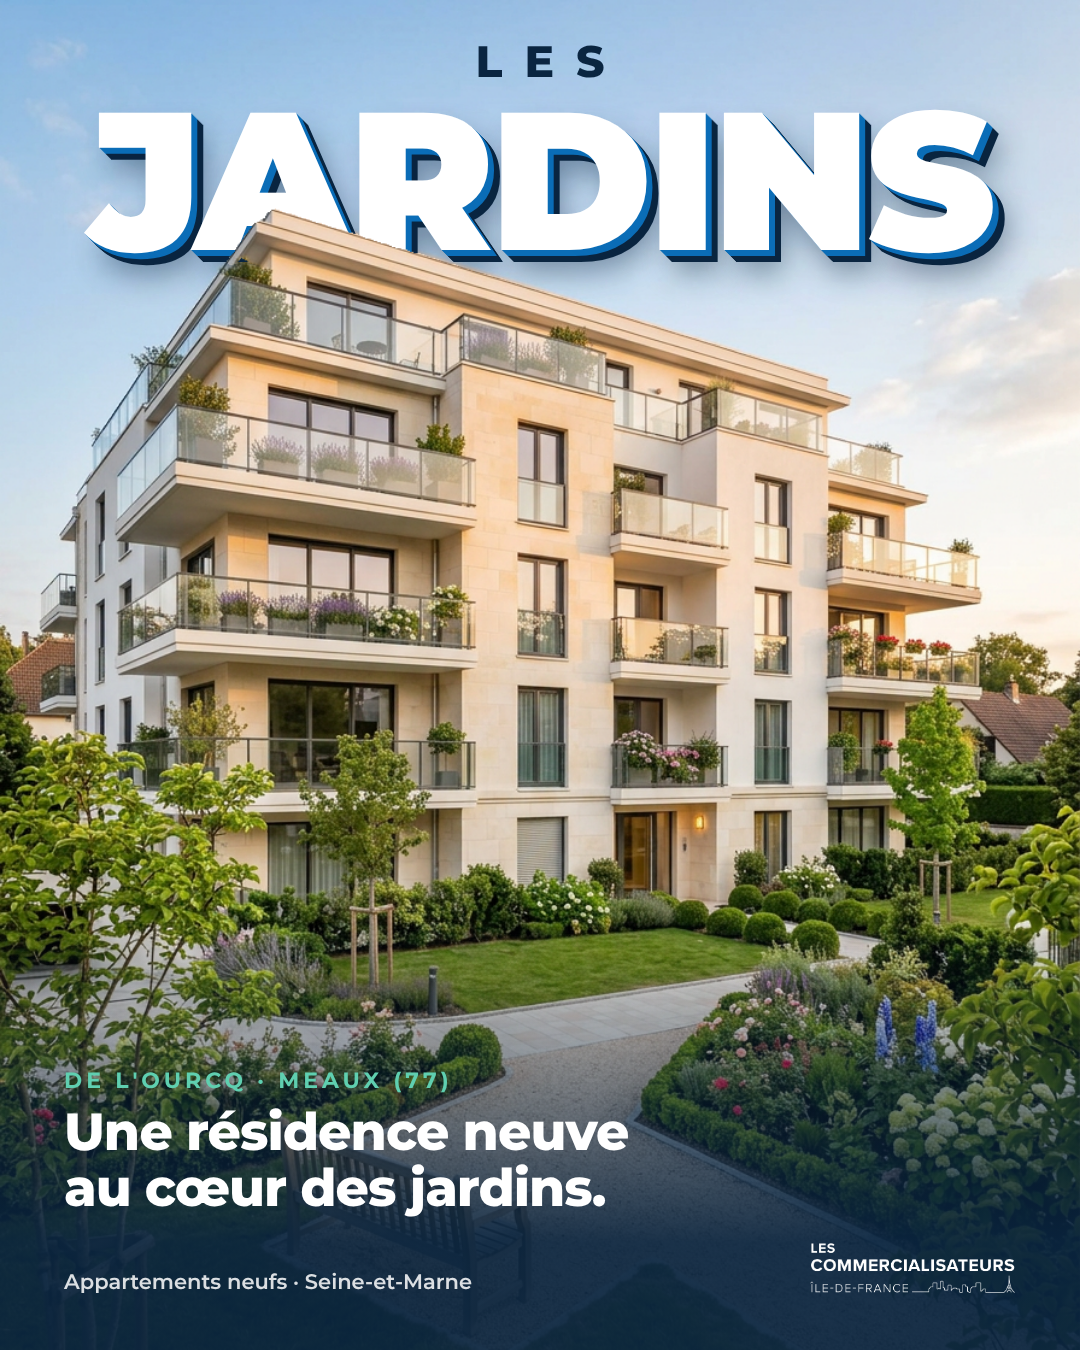
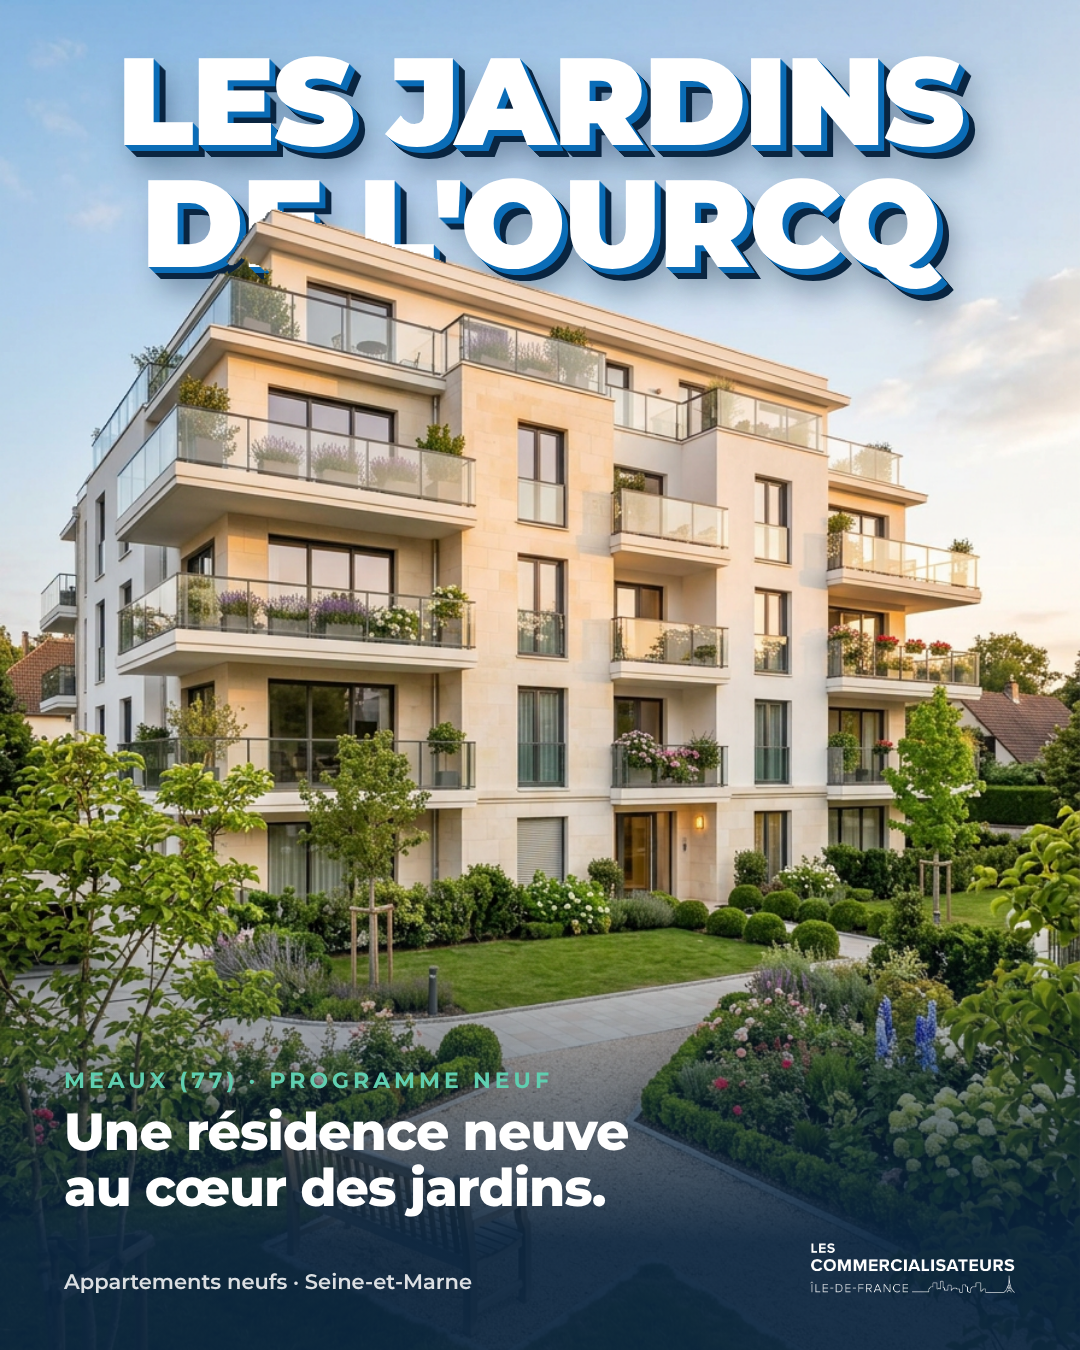
Use full program name in 3D text slide
Claude-Session: https://claude.ai/code/session_013GNgWztrTmP26fiPFmaYbg

Changed region(s): [[0.0611, 0.0311, 0.9472, 0.2489], [0.0611, 0.7778, 0.4889, 0.8089]]

diff --git a/instagram/carousel/slide-03.html b/instagram/carousel/slide-03.html
@@ -4,9 +4,9 @@
 *{margin:0;box-sizing:border-box}
 body{width:1080px;height:1350px;position:relative;overflow:hidden;font-family:Montserrat,Arial,sans-serif;color:#fff}
 .l{position:absolute;inset:0;width:1080px;height:1350px;object-fit:cover;object-position:center 55%}
-.big{position:absolute;left:0;right:0;top:34px;text-align:center}
+.big{position:absolute;left:0;right:0;top:40px;text-align:center}
 .big small{display:block;font-size:44px;font-weight:800;letter-spacing:22px;color:#0A2540;margin-bottom:-6px;padding-left:22px}
-.big h2{font-size:196px;font-weight:900;letter-spacing:-4px;line-height:1;color:#fff;text-shadow:1px 1px 0 #0B6DB7,2px 2px 0 #0B6DB7,3px 3px 0 #0B6DB7,4px 4px 0 #0B6DB7,5px 5px 0 #0B6DB7,6px 6px 0 #0B6DB7,7px 7px 0 #0A2540,8px 8px 0 #0A2540,9px 9px 0 #0A2540,10px 10px 0 #0A2540,11px 11px 0 #0A2540,12px 12px 0 #0A2540,14px 22px 30px rgba(10,37,64,.45)}
+.big h2{font-size:124px;font-weight:900;letter-spacing:-2px;line-height:.98;color:#fff;text-shadow:1px 1px 0 #0B6DB7,2px 2px 0 #0B6DB7,3px 3px 0 #0B6DB7,4px 4px 0 #0B6DB7,5px 5px 0 #0B6DB7,6px 6px 0 #0B6DB7,7px 7px 0 #0A2540,8px 8px 0 #0A2540,9px 9px 0 #0A2540,10px 10px 0 #0A2540,11px 11px 0 #0A2540,12px 12px 0 #0A2540,14px 22px 30px rgba(10,37,64,.45)}
 .fade{position:absolute;inset:auto 0 0 0;height:430px;background:linear-gradient(transparent,rgba(10,37,64,.92) 75%)}
 .bot{position:absolute;left:64px;right:64px;bottom:56px}
 .bot .k{font-size:22px;font-weight:700;letter-spacing:4px;color:#5FCFB0}
@@ -16,11 +16,11 @@ body{width:1080px;height:1350px;position:relative;overflow:hidden;font-family:Mo
 .row img{height:52px}
 </style></head><body>
 <img class="l" src="raw-jardin.png" alt="">
-<div class="big"><small>LES</small><h2>JARDINS</h2></div>
+<div class="big"><h2>LES JARDINS</h2><h2 class="l2">DE L'OURCQ</h2></div>
 <img class="l" src="cut-jardin.png" alt="">
 <div class="fade"></div>
 <div class="bot">
- <div class="k">DE L'OURCQ · MEAUX (77)</div>
+ <div class="k">MEAUX (77) · PROGRAMME NEUF</div>
  <h3>Une résidence neuve<br>au cœur des jardins.</h3>
  <div class="row"><p>Appartements neufs · Seine-et-Marne</p><img src="logo-blanc.png" alt=""></div>
 </div>
